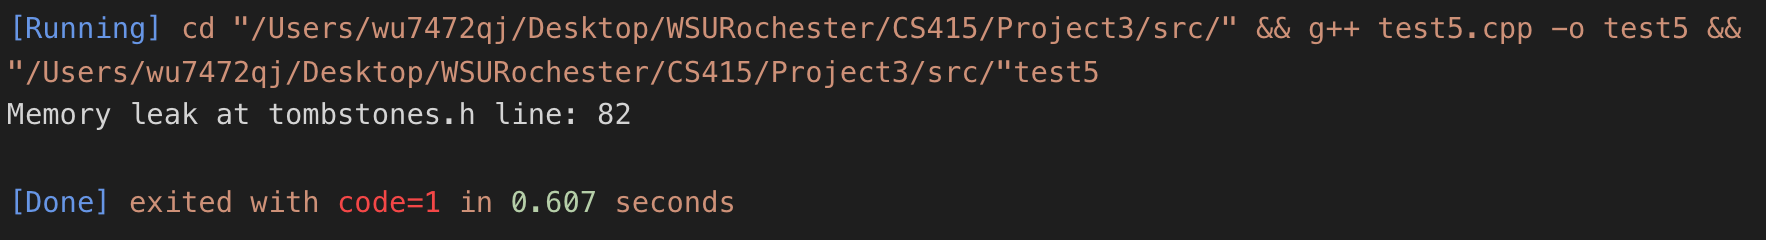
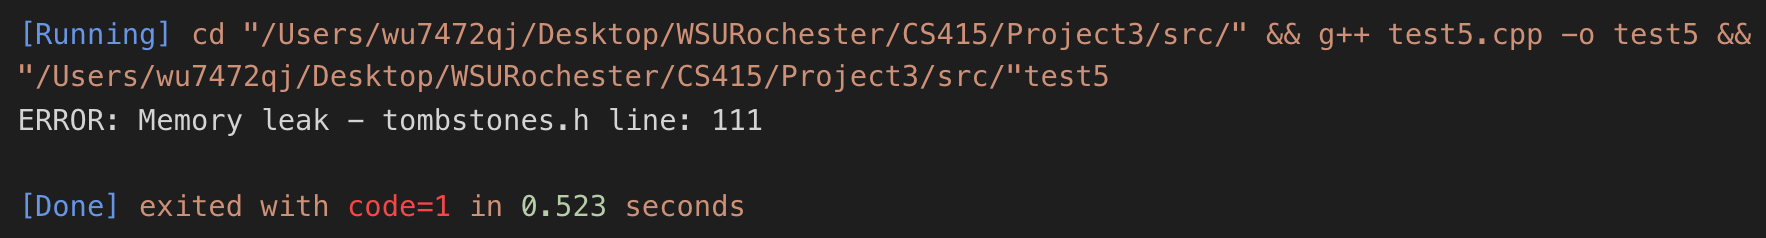
Fixed project 3

diff --git a/CS415/Project3/src/tombstones.h b/CS415/Project3/src/tombstones.h
@@ -8,24 +8,46 @@
 
 //Print pointer access error message and gracefully exit
 void pointer_error(int number) {
-    std::cerr << "Unaccessable pointer reference at tombstones.h line: " << number << std::endl;
+    std::cerr << "ERROR: Attempt to access a memory location that has been potentially reallocated - tombstones.h line: " << number << std::endl;
+    exit(1);
+}
+
+//Print uninitalized pointer error message and gracefully exit
+void uninitalized_error(int number) {
+    std::cerr << "ERROR: Attempt to remove a pointer that is uninitialized - tombstones.h line: " << number << std::endl;
     exit(1);
 }
 
 //Print memory leak error message and gracefully exit
 void leak_memory_error(int number) {
-    std::cerr << "Memory leak at tombstones.h line: " << number << std::endl;
+    std::cerr << "ERROR: Memory leak - tombstones.h line: " << number << std::endl;
     exit(1);
 }
 
-//Defintion of Tomb for larger pointer class
+//Print warning pointer error message and continue execution
+void double_delete_warning(int number) {
+    std::cerr << "WARNING: Attempt to remove a pointer that has already been removed - tombstones.h line: " << number << std::endl;
+}
+
+//Print dangling reference error message and continue execution
+void dangling_warning(int number, int count) {
+    std::cerr << "WARNING: possible dangling reference - tombstones.h line: " << number << std::endl;
+    std::cerr << "\tNumber of references remaining: " << count << std::endl;
+}
+
+/*
+    Defintion of Tomb for larger pointer class
+    Count = -1 indicates uninitialized Ptr
+    Count = 0 indicates no references to Ptr
+    Data = nullptr indicates unitialized OR reallocated memory
+*/
 template <class T>
 struct Tomb {
     T* data;    //pointer to where data is located.
     int count;  //count of pointers to this tomb.
 
     //Constructor with initialized basic values
-    Tomb<T>() : data(nullptr), count(0){}
+    Tomb<T>() : data(nullptr), count(-1){}
 
     //Deconstructor to put tomb back to default state
     ~Tomb<T>() {
@@ -34,6 +56,9 @@ struct Tomb {
     }
 };
 
+/*
+    Ptr class definition
+*/
 template <class T> class Ptr {
 private:
     Tomb<T>* tomb;  //Pointer to tombstone where reference count and data pointer is held
@@ -41,7 +66,7 @@ public:
     //Default constructor
     Ptr<T>() : tomb(nullptr){
         //Initialize using default tombstone constructor
-        //Data -> nullptr  count = 0     
+        //Data -> nullptr  count = -1     
         tomb = new Tomb<T>;
     }                           
     
@@ -51,9 +76,13 @@ public:
         //Increment count unless data is nullptr.
         //In this case assume we copied a Ptr that was initialized using the default constructor.
         if (!(tomb->data)) {
-            tomb->count = 0;
+            tomb->count = -1;
         } else {
-            tomb->count++;
+            if(tomb->count == -1){
+                tomb->count = 1;
+            } else {
+                tomb->count++;
+            }
         }
     }
 
@@ -67,7 +96,7 @@ public:
         //Set count to one unless data is nullptr.
         //In this case assume user is trying to create a Ptn in a similar fashion to the default constructor.
         if (!(tomb->data)) {
-            tomb->count = 0;
+            tomb->count = -1;
         } else {
             tomb->count = 1;
         }
@@ -100,15 +129,25 @@ public:
     //Delete pointed-at object
     friend void release (Ptr<T>& pt) {
         //If count != 1 this means either
-        //1. Tombstone has already been released
-        //2. Another reference has not been released and would result in dangling reference.
+        //1. Uninitalized Ptr
+        //2. Tombstone has already been released
+        //3. Another reference has not been released - warn about dangling references.
         if (pt.tomb->count != 1) {
-            pointer_error(__LINE__);
-        } else {
-            delete pt.tomb->data;
-            pt.tomb->count = 0;
-            (pt.tomb)->data = nullptr;
-        }
+            if(pt.tomb->count == -1){
+                uninitalized_error(__LINE__);
+                //EXIT
+            }
+            if(pt.tomb->count == 0){
+                double_delete_warning(__LINE__);
+                //CONTINUE + potential access error
+            } else {
+                dangling_warning(__LINE__, pt.tomb->count - 1);
+                //CONTINUE
+            }
+        } 
+        delete pt.tomb->data;
+        pt.tomb->count = 0;
+        (pt.tomb)->data = nullptr;
     }
 
     //Assignment
@@ -125,7 +164,11 @@ public:
         //Thrid: If tomb is non-zero and data is not nullptr then increment count.
         // else assume default constructor state.
         if (tomb && tomb->data) {
-            tomb->count++;
+            if(tomb->count == -1){
+                tomb->count = 1;
+            } else{
+                tomb->count++;
+            }
         }
 
         return *this;

diff --git a/CS415/Project3/src/test1.cpp b/CS415/Project3/src/test1.cpp
@@ -6,28 +6,28 @@ using namespace std;
 
 void Error(const char *text)
 {
-   std::cout << "ERROR: " << text << std::endl;
-   exit(-1);
+    cout << "ERROR: " << text << endl;
+    exit(-1);
 }
 
 int main(int argc, char **argv)
 {
-   Ptr<int> foo(new int(12));
-   Ptr<int> tmp((int*)NULL);
-   Ptr<int> bar = tmp;
+    Ptr<int> foo(new int(12));
+    Ptr<int> tmp((int*)NULL);
+    Ptr<int> bar = tmp;
 
-   if (foo == 0)
-   Error("Foo shouldn't be null!");
-   if (bar != 0)
-   Error("Bar should be null!");
-   bar = new int(12);
-   if (foo == bar)
-   Error("Foo and bar are distinct pointers!");
-   if (*foo != *bar)
-   Error("Foo and bar should have the same value here!");
+    if (foo == 0)
+	Error("Foo shouldn't be null!");
+    if (bar != 0)
+	Error("Bar should be null!");
+    bar = new int(12);
+    if (foo == bar)
+	Error("Foo and bar are distinct pointers!");
+    if (*foo != *bar)
+	Error("Foo and bar should have the same value here!");
 
-   release(foo);
-   release(bar);
-   cout << "foo1: OK" << endl;
-   return 0;
+    release(foo);
+    release(bar);
+    cout << "foo1: OK" << endl;
+    return 0;
 }

diff --git a/CS415/Project3/src/test5.cpp b/CS415/Project3/src/test5.cpp
@@ -6,19 +6,19 @@ using namespace std;
 
 void Error(const char *text)
 {
-   cout << "ERROR: " << text << endl;
-   exit(-1);
+    cout << "ERROR: " << text << endl;
+    exit(-1);
 }
 
 void sub()
 {
-   Ptr<int> foo(new int(12));
+    Ptr<int> foo(new int(12));
 }
 
 int main(int argc, char **argv)
 {
-   sub();
-   Error("Didn't blow up when leaking memory!");
+    sub();
+    Error("Didn't blow up when leaking memory!");
 
-   return 0;
+    return 0;
 }
